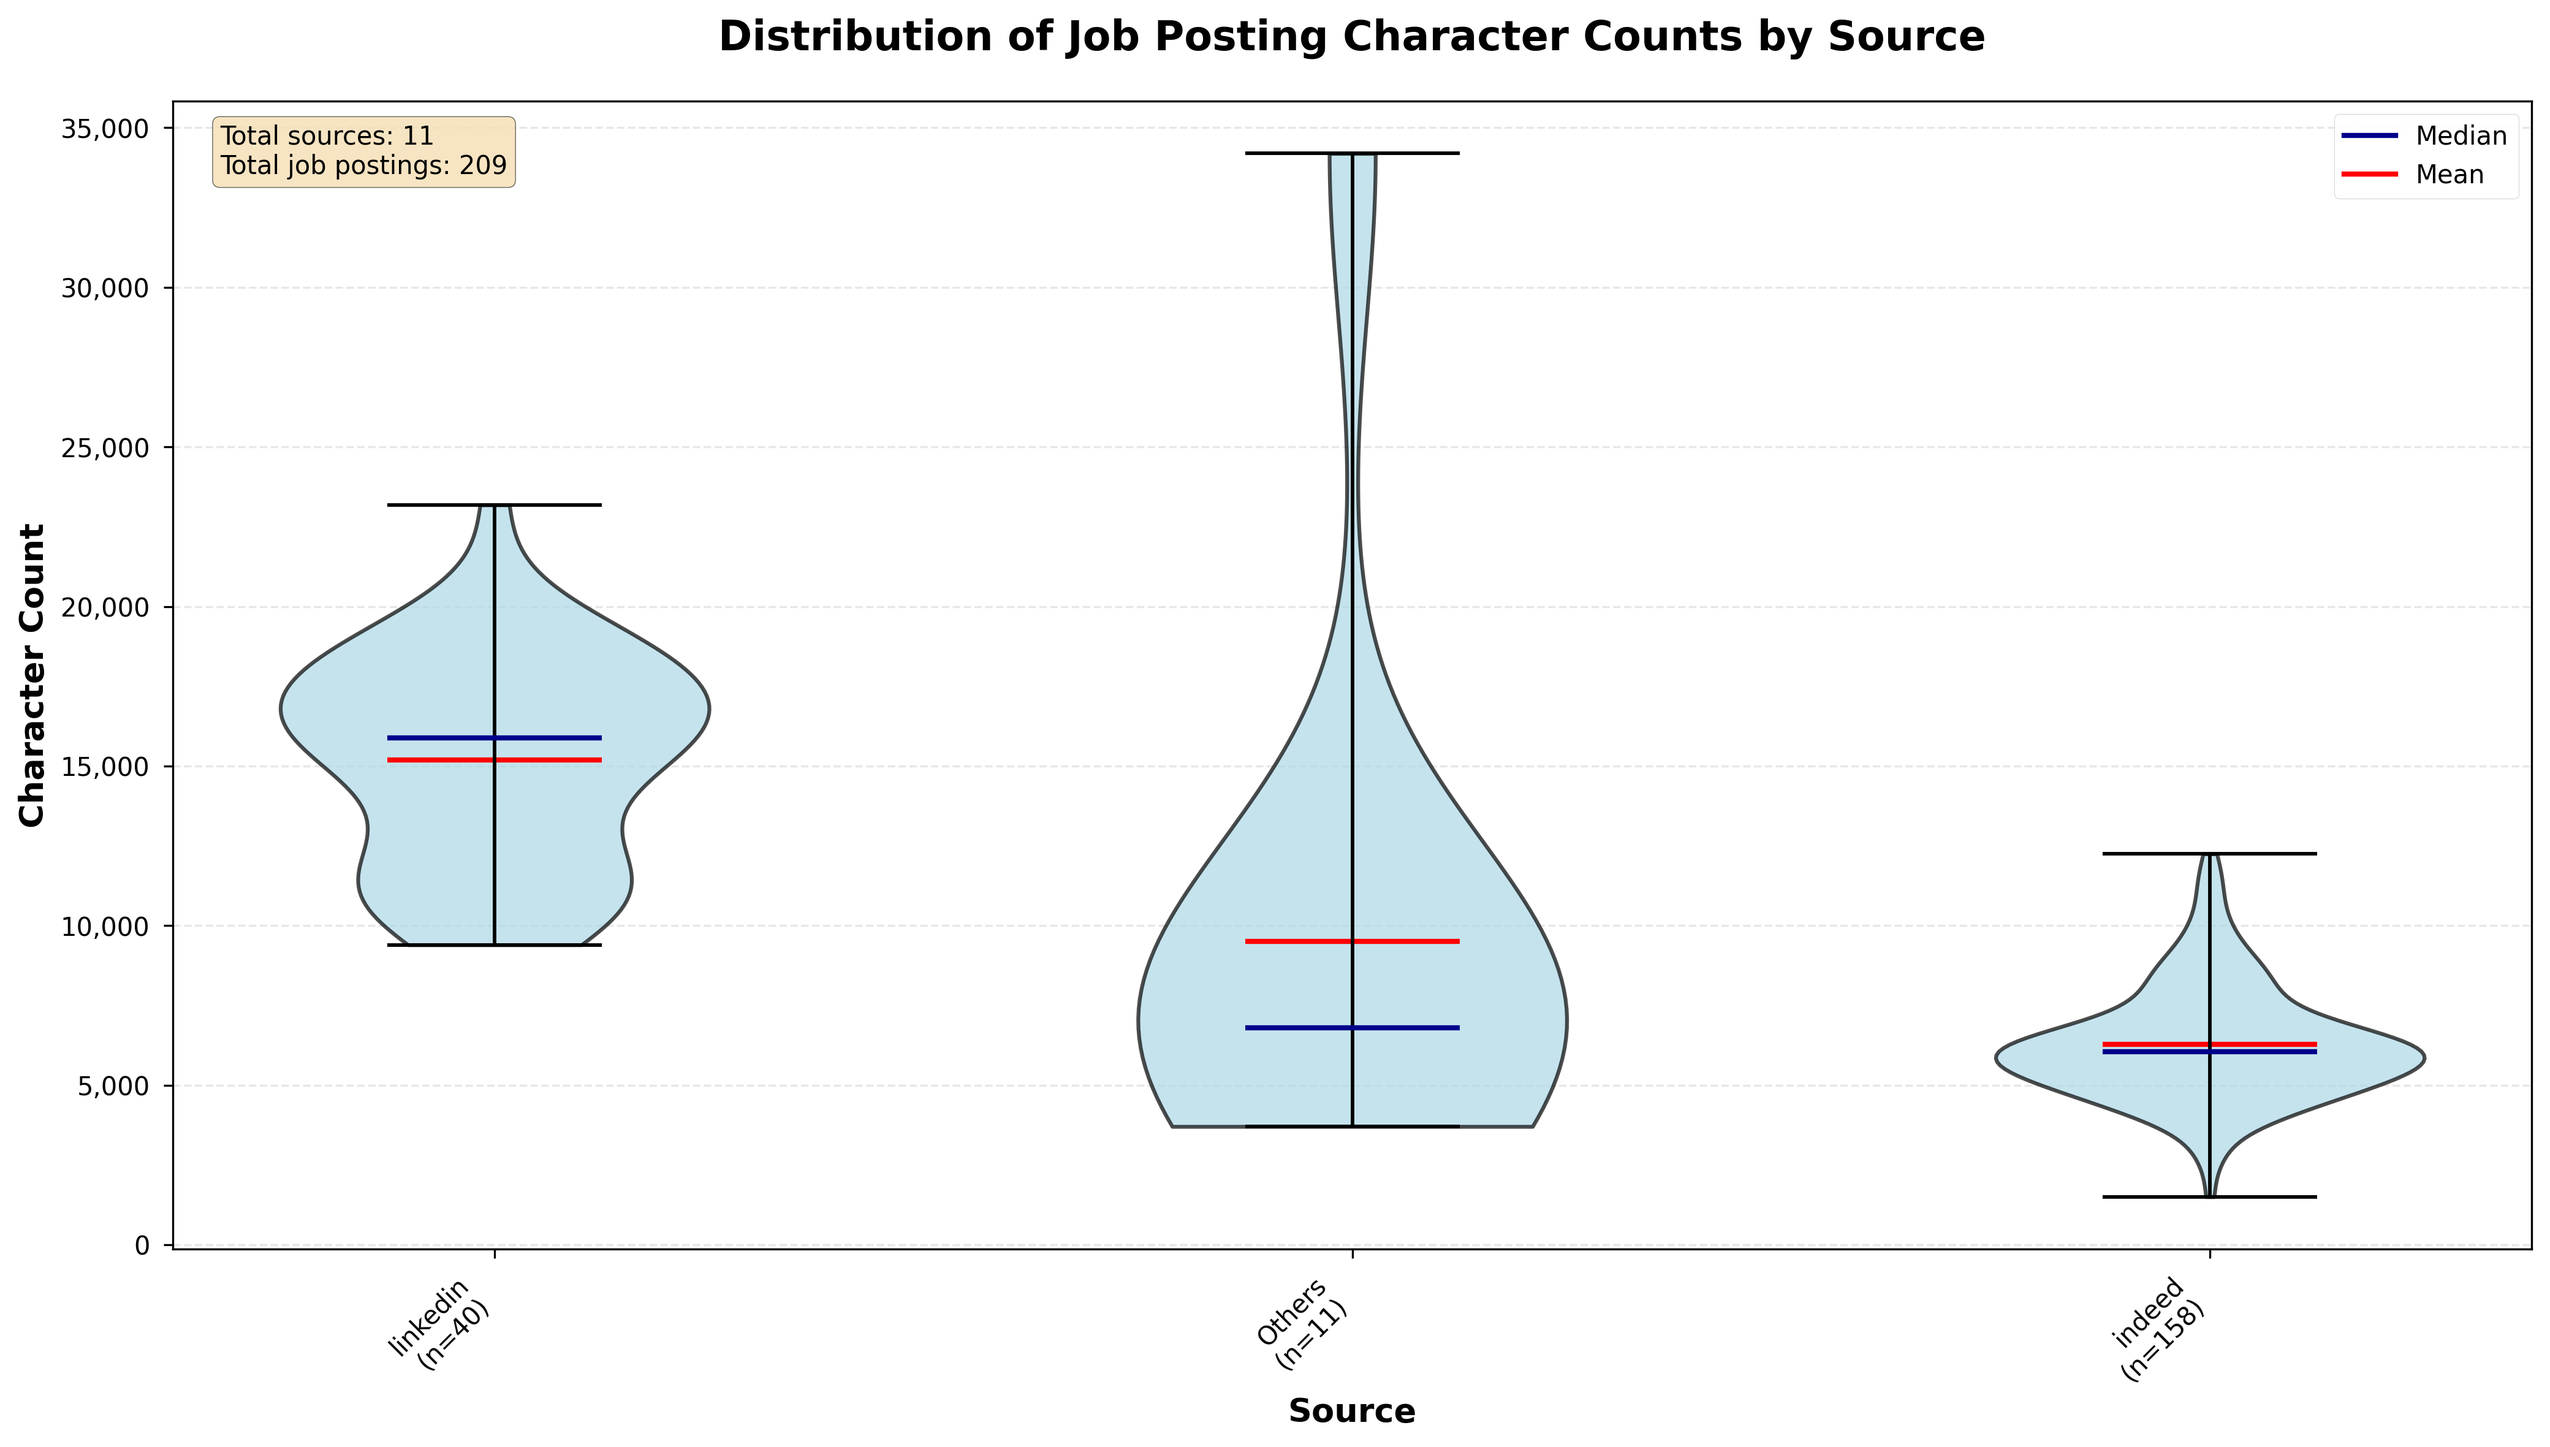
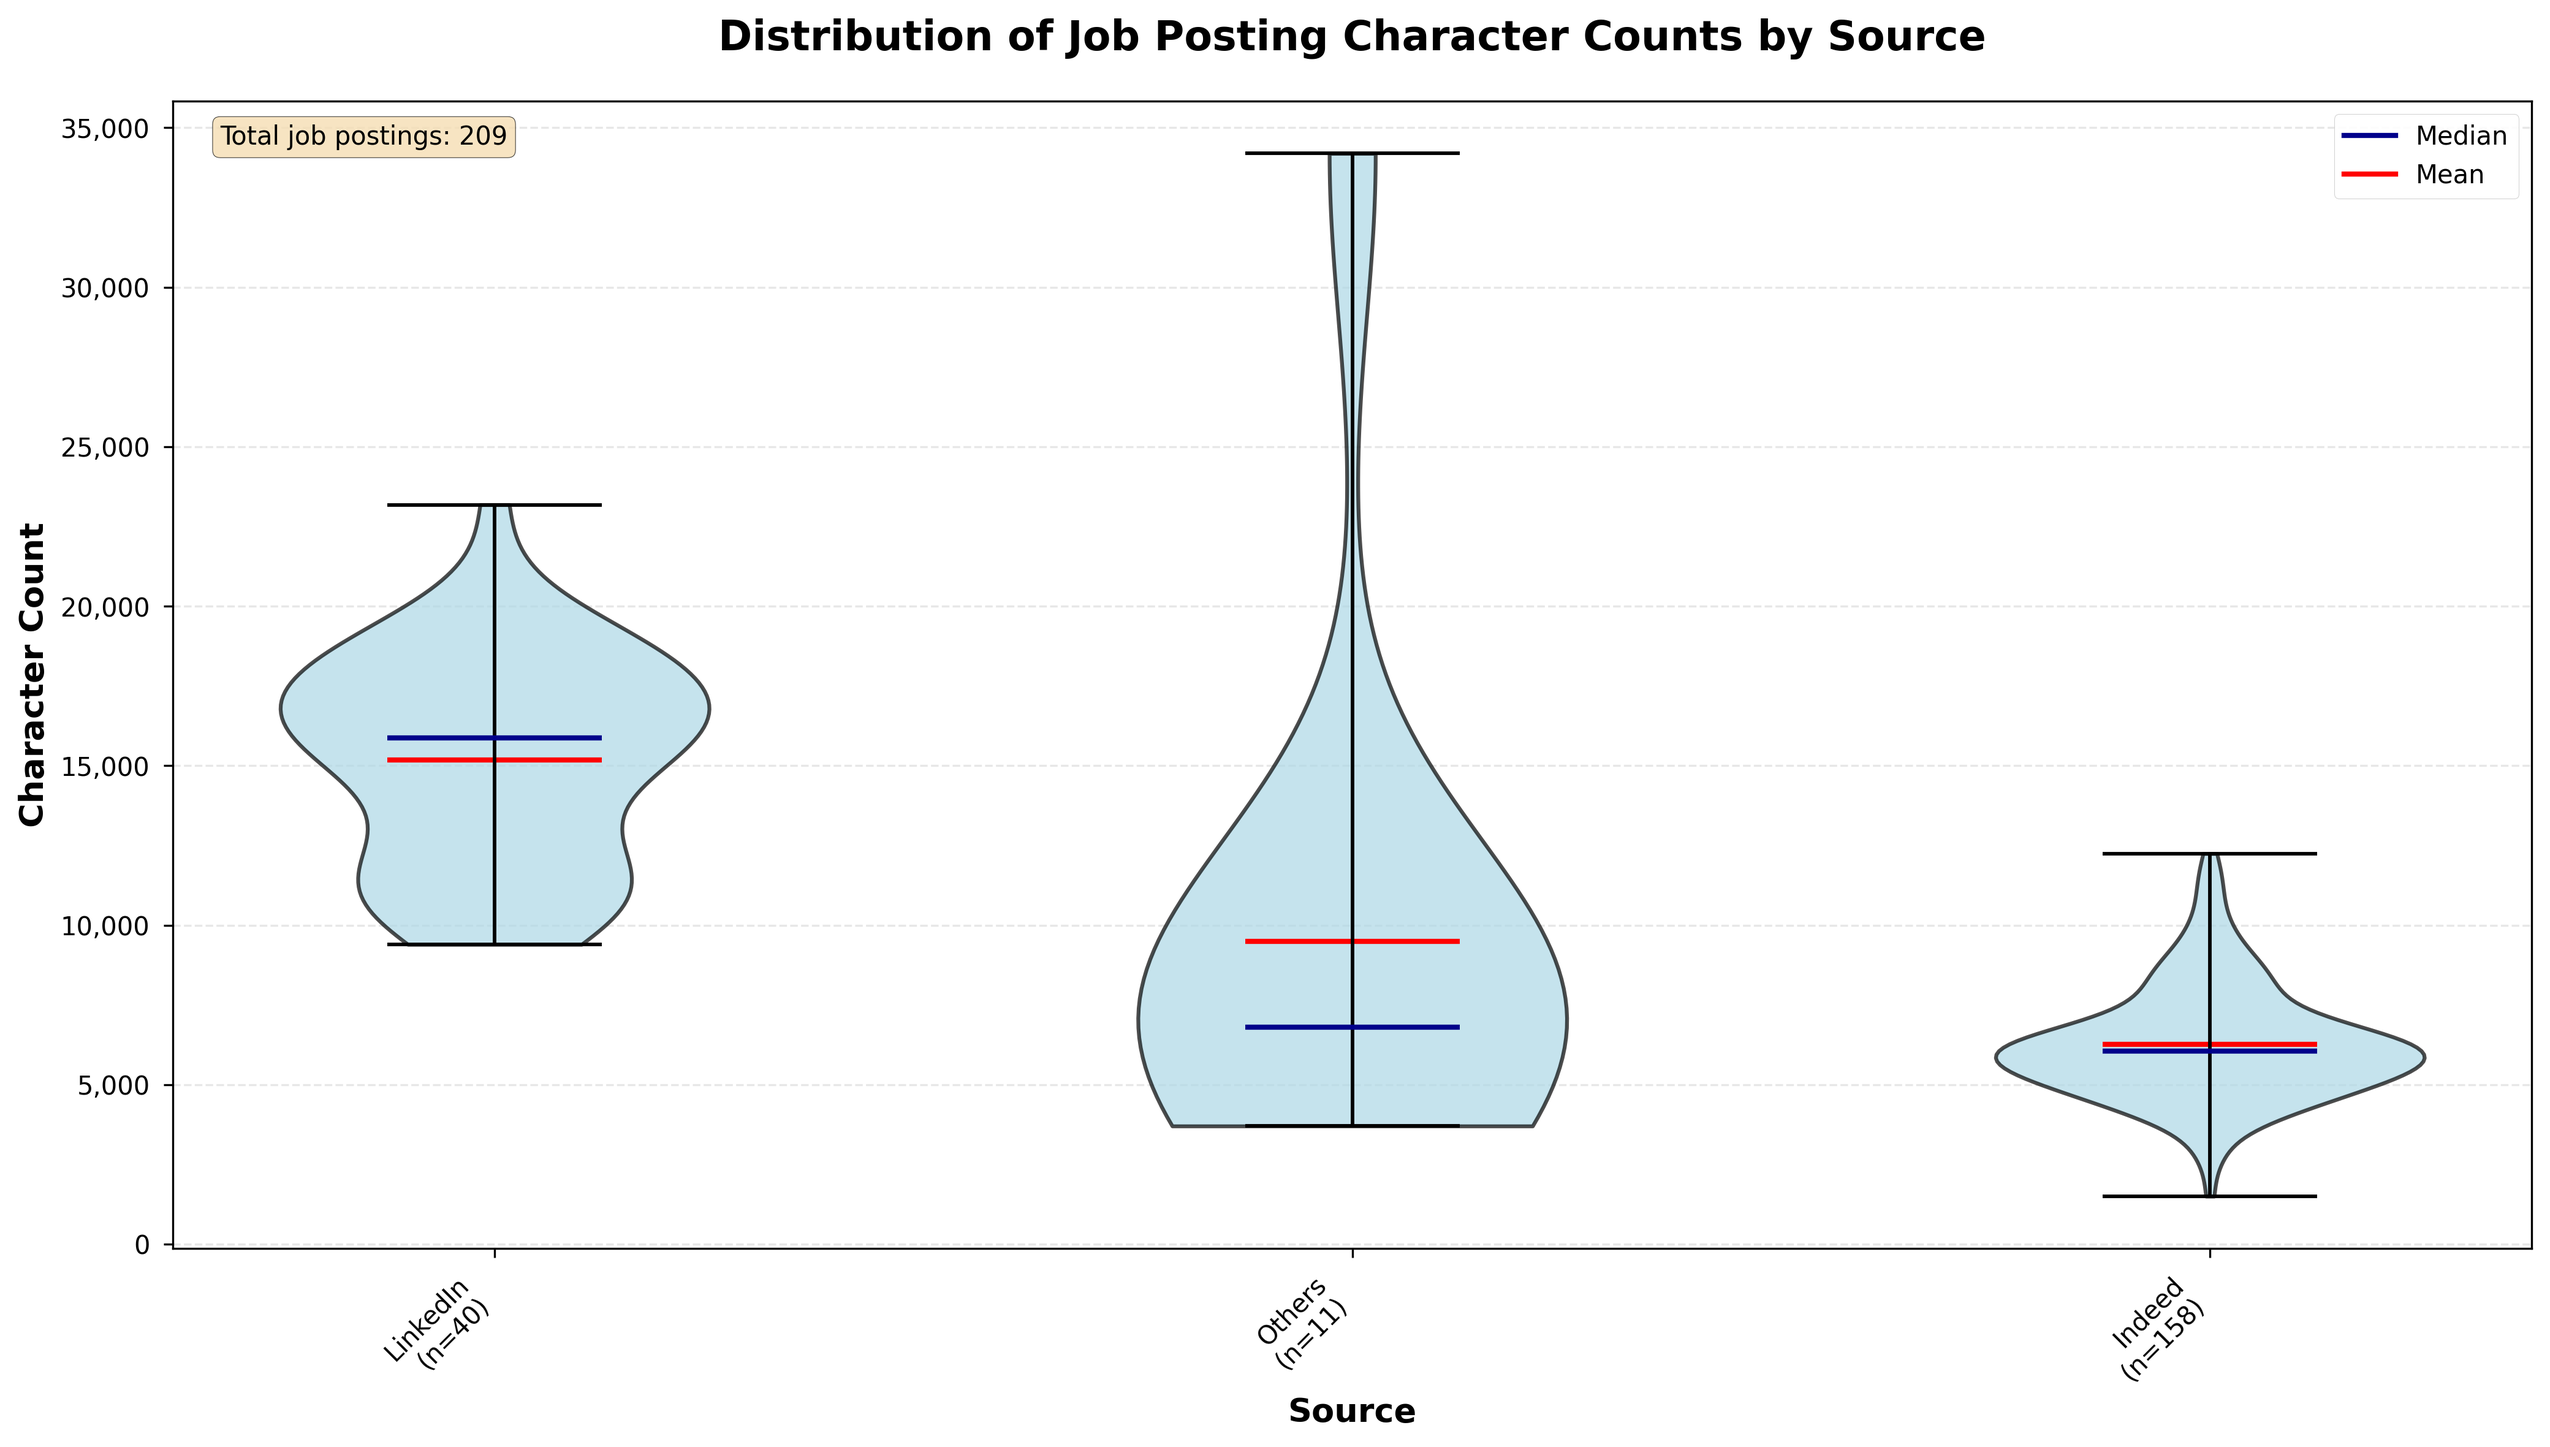
Refactor labels for character length by source plot

Changed region(s): [[0.0625, 0.0928, 0.2187, 0.1546], [0.4999, 0.8967, 0.5311, 0.9276], [0.1562, 0.8967, 0.1875, 0.9276]]

diff --git a/visualisation/plot_character_count_by_source.py b/visualisation/plot_character_count_by_source.py
@@ -42,13 +42,17 @@ for d in all_data:
 
 source_medians = {source: np.median(counts) for source, counts in source_data.items()}
 sorted_sources = sorted(source_medians.keys(), key=lambda x: source_medians[x], reverse=True)
-
+source_labels = {
+    "indeed": "Indeed",
+    "linkedin": "LinkedIn",
+    "Others": "Others",
+}
 plot_data = []
 plot_labels = []
 for source in sorted_sources:
     counts = source_data[source]
     plot_data.append(counts)
-    label = f"{source}\n(n={len(counts)})"
+    label = f"{source_labels.get(source)}\n(n={len(counts)})"
     plot_labels.append(label)
 
 fig, ax = plt.subplots(figsize=(14, 8))
@@ -91,7 +95,7 @@ legend_elements = [
 ]
 ax.legend(handles=legend_elements, loc='upper right', framealpha=0.9)
 
-textstr = f'Total sources: 11 \nTotal job postings: {len(all_data)}'
+textstr = f'Total job postings: {len(all_data)}'
 props = dict(boxstyle='round', facecolor='wheat', alpha=0.8)
 ax.text(0.02, 0.98, textstr, transform=ax.transAxes, fontsize=10,
         verticalalignment='top', bbox=props)
